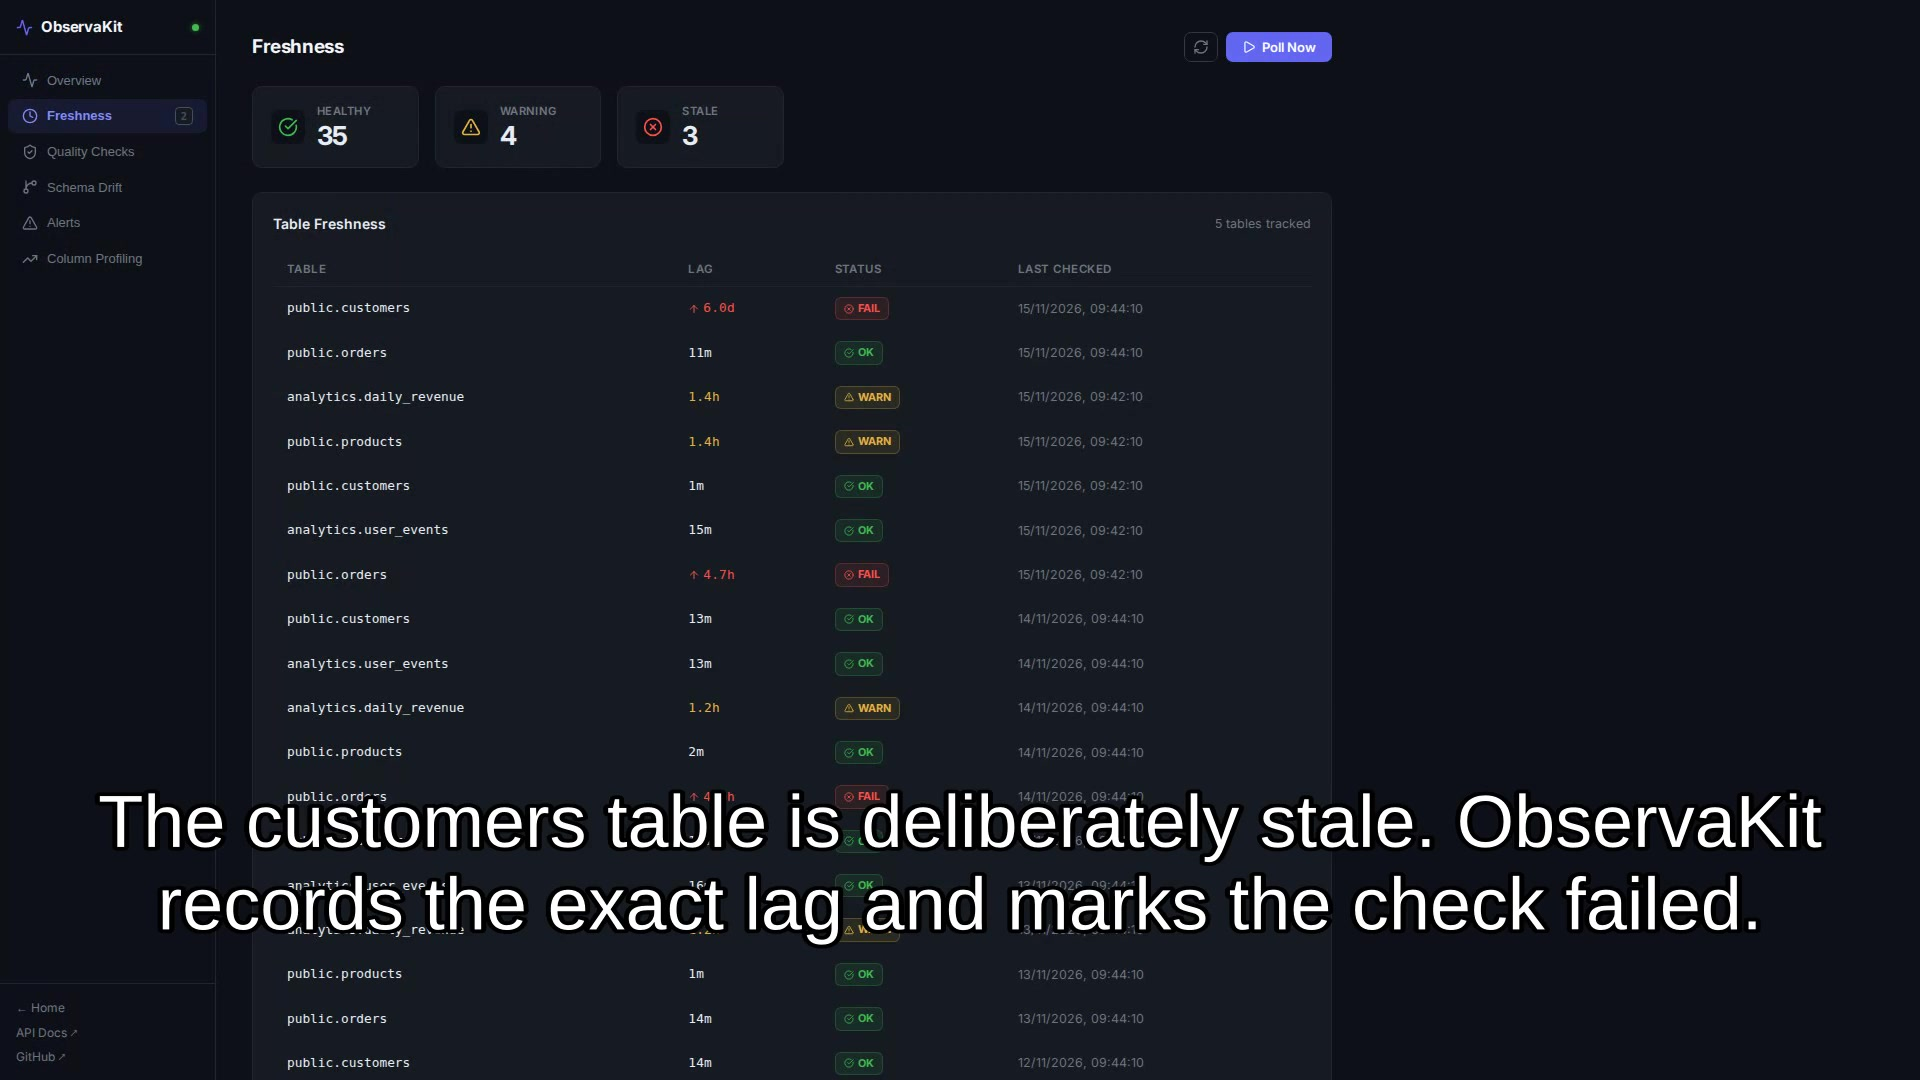
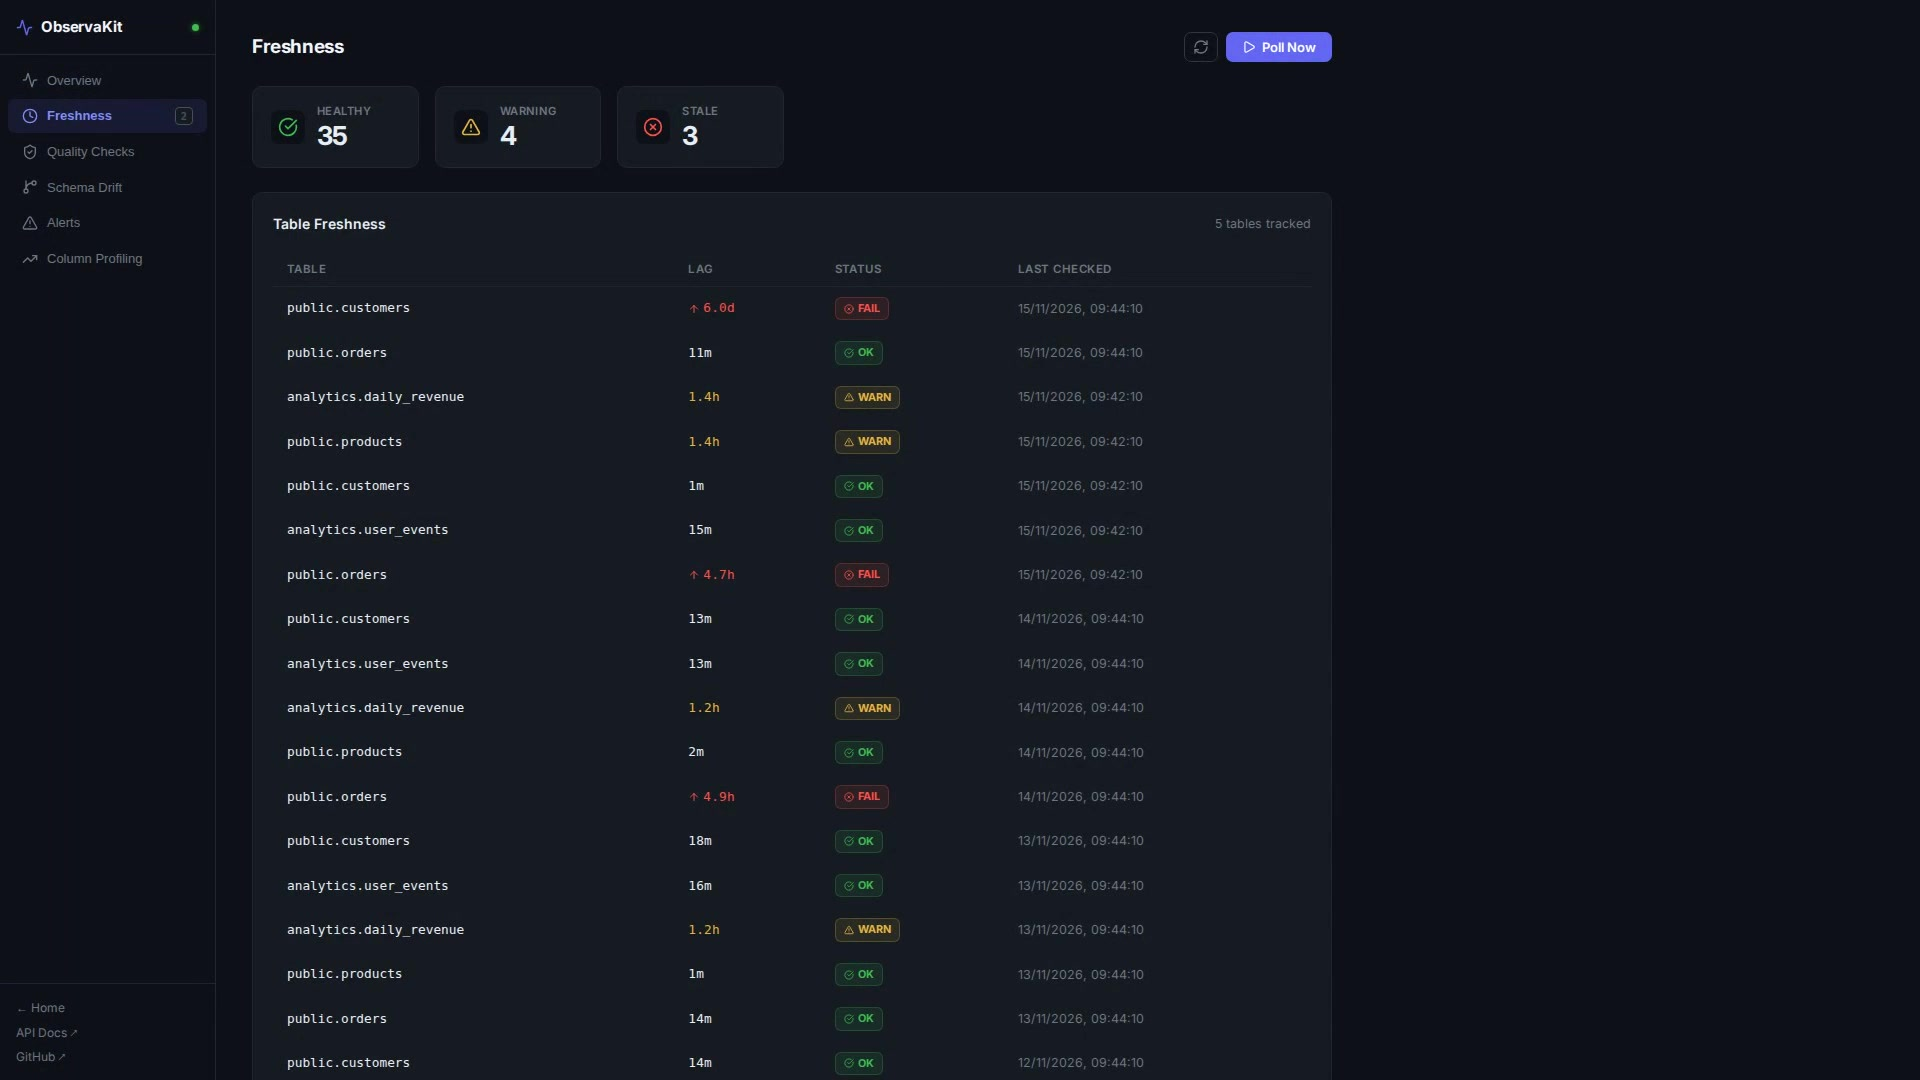
docs: voice-only demo video with autoplay on Pages
Rebuild the demo without burned-in captions: cut each narration scene from
the raw capture, pad outgoing scenes by the transition length, and join
them with 0.35 s crossfades so the audio stays aligned. The landing page
now autoplays the video muted when it enters the viewport, pauses it when
scrolled away, and offers a click-to-unmute control, since browsers block
autoplay with sound.

Changed region(s): [[0.0312, 0.7333, 0.9688, 0.8861]]

diff --git a/landing-page/src/App.jsx b/landing-page/src/App.jsx
@@ -1,4 +1,4 @@
-import React from 'react';
+import React, { useEffect, useRef, useState } from 'react';
 import { BrowserRouter as Router, Routes, Route, Link } from 'react-router-dom';
 import {
   Activity,
@@ -20,6 +20,7 @@ import {
   X,
   Minus,
   Play,
+  Volume2,
 } from 'lucide-react';
 
 // Github brand icon was removed from lucide-react v1.x — use inline SVG
@@ -175,6 +176,78 @@ function SiteNav() {
 }
 
 // ---------------------------------------------------------------------------
+// Demo video
+// ---------------------------------------------------------------------------
+function DemoVideo() {
+  const videoRef = useRef(null);
+  const [muted, setMuted] = useState(true);
+  const [playing, setPlaying] = useState(false);
+
+  useEffect(() => {
+    const video = videoRef.current;
+    if (!video) return undefined;
+    video.muted = true;
+
+    if (window.matchMedia('(prefers-reduced-motion: reduce)').matches) {
+      return undefined;
+    }
+
+    const observer = new IntersectionObserver(
+      ([entry]) => {
+        if (entry.isIntersecting) {
+          video.play().catch(() => {
+            // Autoplay can still be blocked; the poster and controls remain.
+          });
+        } else {
+          video.pause();
+        }
+      },
+      { threshold: 0.5 },
+    );
+    observer.observe(video);
+    return () => observer.disconnect();
+  }, []);
+
+  const playWithSound = () => {
+    const video = videoRef.current;
+    if (!video) return;
+    video.muted = false;
+    setMuted(false);
+    video.play().catch(() => {
+      video.muted = true;
+      setMuted(true);
+    });
+  };
+
+  return (
+    <div className="demo-video-frame">
+      <video
+        ref={videoRef}
+        autoPlay
+        muted
+        playsInline
+        controls
+        preload="metadata"
+        poster={`${import.meta.env.BASE_URL}observakit-demo-poster.jpg`}
+        onPlay={() => setPlaying(true)}
+        onPause={() => setPlaying(false)}
+        onVolumeChange={(event) => setMuted(event.currentTarget.muted)}
+      >
+        <source src={DEMO_VIDEO_URL} type="video/mp4" />
+        Your browser does not support the video tag.{' '}
+        <a href={DEMO_VIDEO_URL}>Download the MP4</a>.
+      </video>
+      {(!playing || muted) && (
+        <button type="button" className="demo-audio-button" onClick={playWithSound}>
+          {playing ? <Volume2 size={16} /> : <Play size={16} />}
+          {playing ? 'Unmute narration' : 'Play with sound'}
+        </button>
+      )}
+    </div>
+  );
+}
+
+// ---------------------------------------------------------------------------
 // Landing Page
 // ---------------------------------------------------------------------------
 function LandingPage() {
@@ -274,20 +347,9 @@ function LandingPage() {
           <p className="section-subtitle">
             A real run against the seeded demo warehouse — stale data, quality checks, and the dashboard.
           </p>
-          <div className="demo-video-frame">
-            <video
-              controls
-              preload="none"
-              playsInline
-              poster={`${import.meta.env.BASE_URL}observakit-demo-poster.jpg`}
-            >
-              <source src={DEMO_VIDEO_URL} type="video/mp4" />
-              Your browser does not support the video tag.{' '}
-              <a href={DEMO_VIDEO_URL}>Download the MP4</a>.
-            </video>
-          </div>
+          <DemoVideo />
           <p className="demo-caption">
-            1080p · burned-in captions ·{' '}
+            1080p · voiceover ·{' '}
             <a href={DEMO_VIDEO_URL} target="_blank" rel="noreferrer">
               open the MP4 directly
             </a>

diff --git a/landing-page/src/index.css b/landing-page/src/index.css
@@ -565,6 +565,7 @@ h2 {
 }
 
 .demo-video-frame {
+  position: relative;
   max-width: 960px;
   margin: 0 auto;
   border: 1px solid var(--border);
@@ -597,9 +598,46 @@ h2 {
   color: var(--text);
 }
 
+.demo-audio-button {
+  position: absolute;
+  left: 1rem;
+  bottom: 3.25rem;
+  display: inline-flex;
+  align-items: center;
+  gap: 0.45rem;
+  padding: 0.55rem 0.9rem;
+  border: 1px solid rgba(255, 255, 255, 0.18);
+  border-radius: 8px;
+  background: rgba(10, 10, 10, 0.82);
+  backdrop-filter: blur(8px);
+  -webkit-backdrop-filter: blur(8px);
+  color: var(--text);
+  font: inherit;
+  font-size: 0.8125rem;
+  font-weight: 600;
+  cursor: pointer;
+  transition: background 0.15s, border-color 0.15s;
+}
+
+.demo-audio-button:hover {
+  background: rgba(30, 30, 30, 0.92);
+  border-color: rgba(255, 255, 255, 0.3);
+}
+
+.demo-audio-button:focus-visible {
+  outline: 2px solid var(--primary-light);
+  outline-offset: 2px;
+}
+
 @media (max-width: 600px) {
   .demo-section { padding-top: 3.5rem; }
   .demo-video-frame { border-radius: 10px; }
+  .demo-audio-button {
+    left: 0.6rem;
+    bottom: 2.8rem;
+    padding: 0.45rem 0.7rem;
+    font-size: 0.75rem;
+  }
 }
 
 /* ── Stats Row ───────────────────────────────── */

diff --git a/scripts/assemble_demo.py b/scripts/assemble_demo.py
@@ -1,0 +1,204 @@
+#!/usr/bin/env python3
+"""Assemble the ObservaKit demo from the raw screen recording.
+
+The raw capture is cut at the narration scene boundaries, padded by one
+transition length at the end of every scene except the last, and joined with
+FFmpeg ``xfade`` transitions. Padding each outgoing scene means the crossfade
+overlaps a held frame instead of consuming timeline, so the final video keeps
+the narration's exact duration.
+
+No captions are burned in: the finished file carries the voice track only.
+
+Inputs (generated by scripts/record_demo.py and the TTS step):
+  video-work/observakit-raw.webm
+  /tmp/observakit-tts/holds.json
+  /tmp/observakit-tts/narration.wav
+
+Outputs:
+  observakit-demo.mp4
+  observakit-demo-poster.jpg
+"""
+
+from __future__ import annotations
+
+import argparse
+import json
+import subprocess
+import sys
+from pathlib import Path
+
+ROOT = Path(__file__).resolve().parent.parent
+WORK = ROOT / "video-work"
+TTS = Path("/tmp/observakit-tts")
+DEFAULT_TRANSITION = 0.35
+
+
+def run(command: list[str]) -> None:
+    subprocess.run(command, check=True)
+
+
+def ffmpeg(*args: str) -> None:
+    run(["ffmpeg", "-hide_banner", "-loglevel", "error", "-y", *args])
+
+
+def probe_duration(path: Path) -> float:
+    result = subprocess.run(
+        [
+            "ffprobe",
+            "-v",
+            "error",
+            "-show_entries",
+            "format=duration",
+            "-of",
+            "default=nw=1:nk=1",
+            str(path),
+        ],
+        capture_output=True,
+        text=True,
+        check=True,
+    )
+    return float(result.stdout.strip())
+
+
+def cut_scene(raw: Path, start: float, duration: float, output: Path, pad: float) -> None:
+    filters = [f"trim=duration={duration:.3f}", "setpts=PTS-STARTPTS"]
+    if pad > 0:
+        filters.append(f"tpad=stop_mode=clone:stop_duration={pad:.3f}")
+    ffmpeg(
+        "-ss",
+        f"{start:.3f}",
+        "-i",
+        str(raw),
+        "-t",
+        f"{duration + pad:.3f}",
+        "-vf",
+        ",".join(filters),
+        "-an",
+        "-c:v",
+        "libx264",
+        "-preset",
+        "veryfast",
+        "-crf",
+        "16",
+        "-pix_fmt",
+        "yuv420p",
+        str(output),
+    )
+
+
+def main() -> None:
+    parser = argparse.ArgumentParser()
+    parser.add_argument("--transition", type=float, default=DEFAULT_TRANSITION)
+    parser.add_argument("--poster-at", type=float, default=34.0)
+    parser.add_argument("--output", type=Path, default=ROOT / "observakit-demo.mp4")
+    parser.add_argument(
+        "--poster", type=Path, default=ROOT / "observakit-demo-poster.jpg"
+    )
+    args = parser.parse_args()
+
+    raw = WORK / "observakit-raw.webm"
+    holds_path = TTS / "holds.json"
+    narration = TTS / "narration.wav"
+    for required in (raw, holds_path, narration):
+        if not required.exists():
+            raise SystemExit(f"missing input: {required}")
+
+    timeline = json.loads(holds_path.read_text())
+    holds = [float(value) for value in timeline["holds"]]
+    starts = [float(value) for value in timeline["scene_starts"]]
+    if len(holds) != len(starts):
+        raise SystemExit("holds.json has mismatched holds and scene_starts")
+
+    segments_dir = WORK / "segments"
+    segments_dir.mkdir(exist_ok=True)
+    for stale in segments_dir.glob("scene-*.mp4"):
+        stale.unlink()
+
+    segments: list[Path] = []
+    last = len(holds) - 1
+    for index, (start, hold) in enumerate(zip(starts, holds)):
+        segment = segments_dir / f"scene-{index:02d}.mp4"
+        cut_scene(raw, start, hold, segment, args.transition if index < last else 0.0)
+        actual = probe_duration(segment)
+        segments.append(segment)
+        print(f"scene {index:02d}: {actual:.3f}s (planned {hold:.3f}s)", file=sys.stderr)
+
+    # xfade offsets are based on the padded segment lengths. Each overlap
+    # consumes one transition length, so the total returns to sum(holds).
+    inputs: list[str] = []
+    for segment in segments:
+        inputs.extend(["-i", str(segment)])
+
+    filters: list[str] = []
+    label = "0:v"
+    current = probe_duration(segments[0])
+    for index in range(1, len(segments)):
+        next_label = f"v{index}"
+        offset = max(0.0, current - args.transition)
+        filters.append(
+            f"[{label}][{index}:v]xfade=transition=fade:"
+            f"duration={args.transition:.3f}:offset={offset:.3f}[{next_label}]"
+        )
+        label = next_label
+        current += probe_duration(segments[index]) - args.transition
+
+    silent = WORK / "observakit-transitions.mp4"
+    ffmpeg(
+        *inputs,
+        "-filter_complex",
+        ";".join(filters),
+        "-map",
+        f"[{label}]",
+        "-an",
+        "-c:v",
+        "libx264",
+        "-preset",
+        "slow",
+        "-crf",
+        "18",
+        "-pix_fmt",
+        "yuv420p",
+        "-movflags",
+        "+faststart",
+        str(silent),
+    )
+
+    ffmpeg(
+        "-i",
+        str(silent),
+        "-i",
+        str(narration),
+        "-map",
+        "0:v:0",
+        "-map",
+        "1:a:0",
+        "-c:v",
+        "copy",
+        "-c:a",
+        "aac",
+        "-b:a",
+        "192k",
+        "-shortest",
+        "-movflags",
+        "+faststart",
+        str(args.output),
+    )
+
+    ffmpeg(
+        "-ss",
+        f"{args.poster_at:.3f}",
+        "-i",
+        str(args.output),
+        "-frames:v",
+        "1",
+        "-q:v",
+        "2",
+        str(args.poster),
+    )
+
+    print(f"video:  {args.output} ({probe_duration(args.output):.3f}s)")
+    print(f"poster: {args.poster}")
+
+
+if __name__ == "__main__":
+    main()

diff --git a/README.md b/README.md
@@ -36,7 +36,7 @@
 
 [![Watch the 2-minute ObservaKit demo](docs/assets/observakit-demo-poster.jpg)](https://github.com/willowvibe/ObservaKit/releases/download/v1.0.0/observakit-demo.mp4)
 
-A real run against the seeded demo warehouse: the deliberately stale `customers` table, quality checks, and the dashboard. The MP4 is 1080p with burned-in captions. The shot list and narration are in [docs/demo-script.md](docs/demo-script.md).
+A real run against the seeded demo warehouse: the deliberately stale `customers` table, quality checks, and the dashboard. The MP4 is 1080p with a voiceover and no burned-in captions. The shot list and narration are in [docs/demo-script.md](docs/demo-script.md).
 
 ## Who this is for
 

diff --git a/docs/demo-script.md b/docs/demo-script.md
@@ -1,6 +1,6 @@
 # ObservaKit demo — 2-minute walkthrough
 
-Format: 1920×1080, H.264 + AAC, burned-in captions. Recorded from the demo stack.
+Format: 1920×1080, H.264 + AAC, voiceover only (no burned-in captions), with 0.35 s crossfades between scenes. Recorded from the demo stack.
 
 | Time | Visual | Narration |
 |---|---|---|
